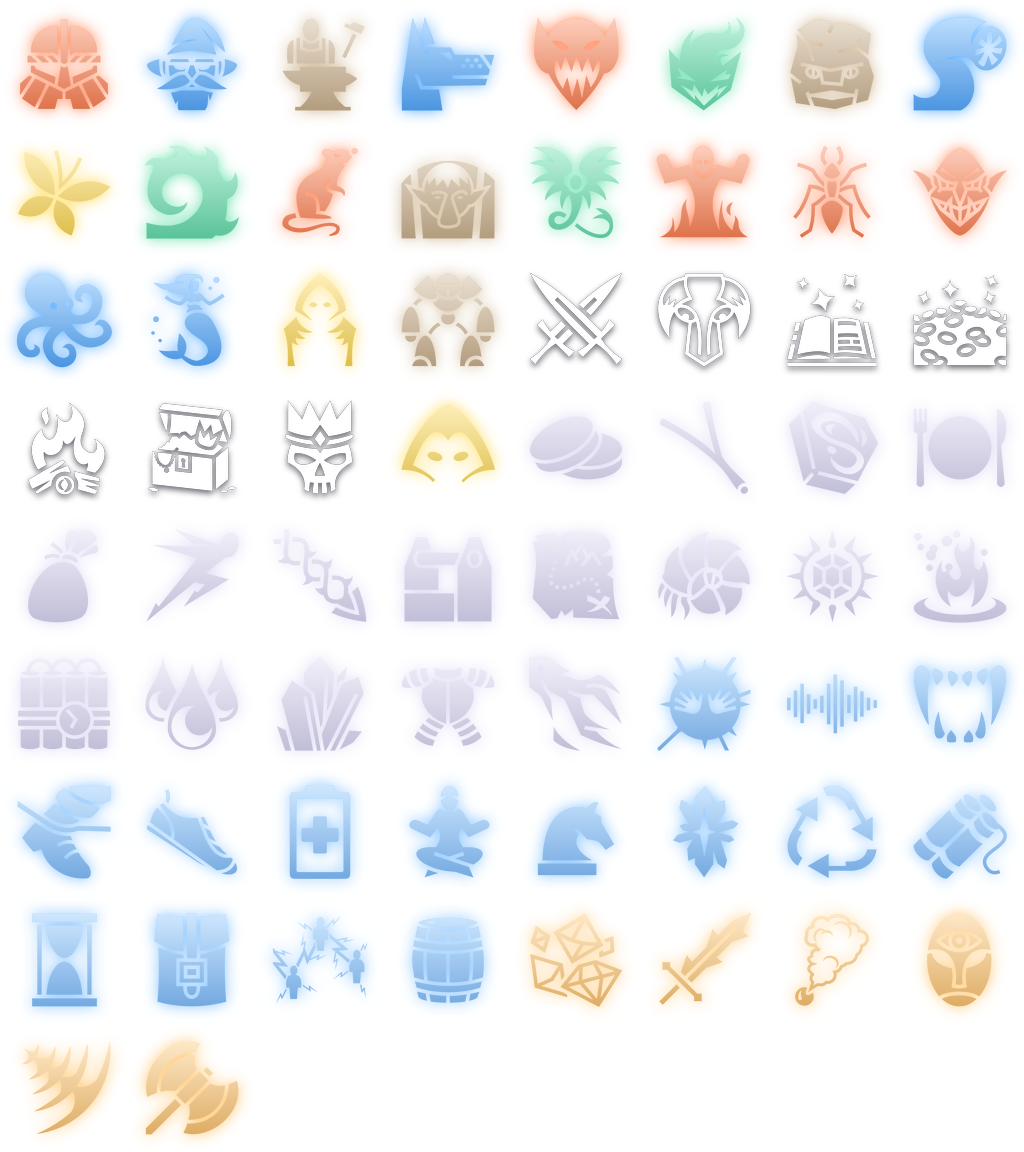
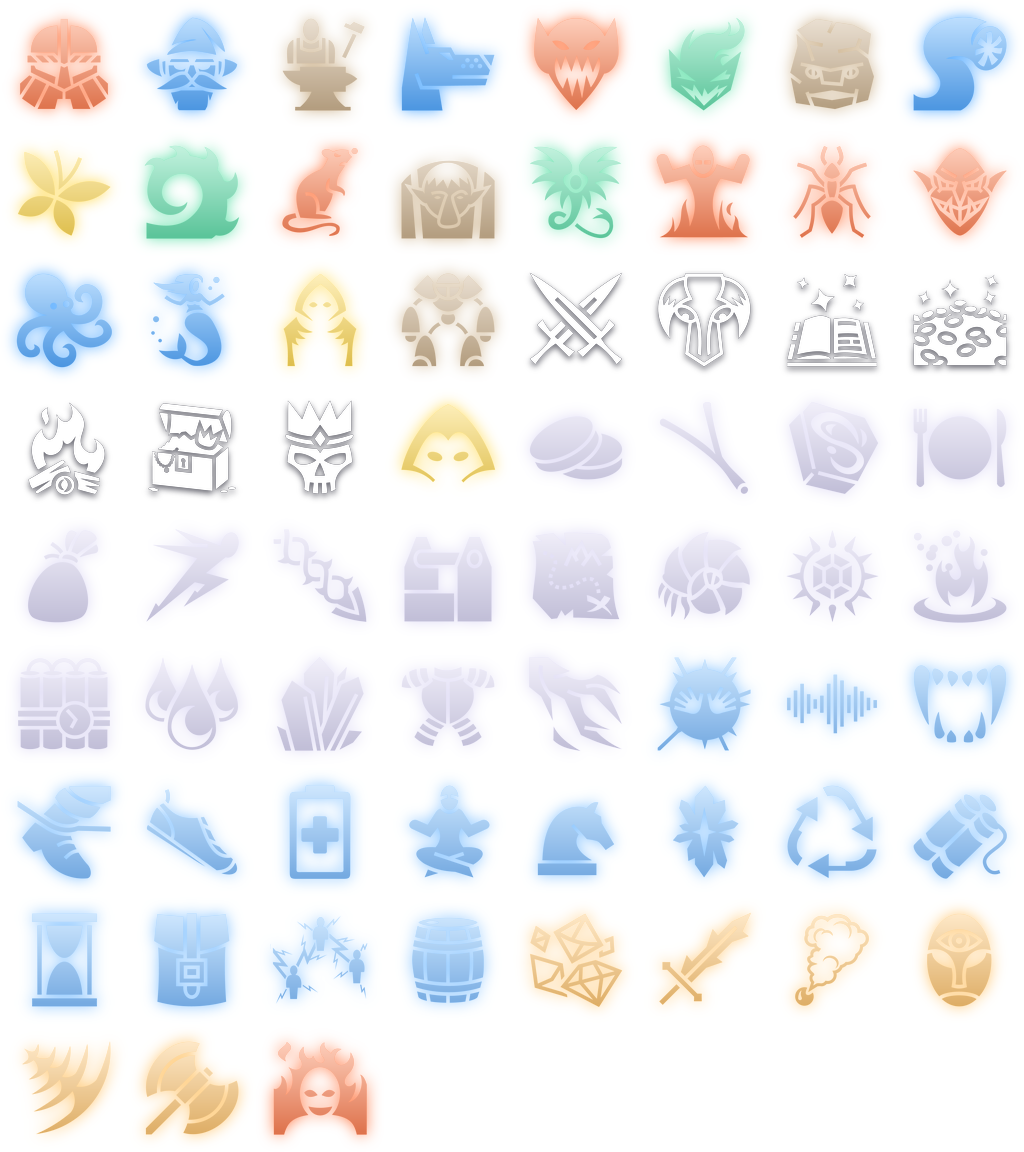
Fourth bearer Scaldwright, and review fixes
Scaldwright (Ember, Tide, Spark; Strikes burn for 2 turns) puts Steam Burst,
Plasma and Conduction into play, with a new triple rite, Boilover. Its sigil
is a new atlas cell after the charms, so no existing cell moved. Old saves
still load.

Fixes from the design review:
- Short Circuit's drain grows on upgrade; "1 stack" reads right.
- Restock is refused once no new pact can turn up.
- The Below: land is built once per unlock, Title button sits by the
  heading, locked places are easier to see.
- Battle: banners sit over the board instead of across SURGE and the rites;
  tiles near a live crystal are the bright ones; all element signs share one
  brightness, with longer bars on Gale and Stone.
- Floor map shows the twist once and labels the bottom tip; pact cards are
  centred with a rarity-weighted frame; shop booth aligned; the status bar
  clears the gear.

Changed region(s): [[0.25, 0.9062, 0.375, 1.0]]

diff --git a/src/ui.rs b/src/ui.rs
@@ -36,15 +36,9 @@ const HEX: Color = rgb(0xa0a0a0);
 
 pub const VIEW: Vec2 = vec2(1280.0, 720.0);
 
-/// Elements differ by their alchemical sign (`gem`), so their light only varies a little.
-fn el_color(e: Element) -> Color {
-    match e {
-        Element::Ember => rgb(0xf2f2f2),
-        Element::Tide => rgb(0xc8c8c8),
-        Element::Gale => rgb(0xe0e0e0),
-        Element::Stone => rgb(0xa8a8a8),
-        Element::Spark => rgb(0xffffff),
-    }
+/// Elements differ only by their alchemical sign (`gem`); a dimmer one would read as disabled.
+fn el_color(_: Element) -> Color {
+    INK
 }
 
 fn mix(a: Color, b: Color, t: f32) -> Color {
@@ -671,8 +665,8 @@ fn sign_strokes(e: Element) -> Vec<Vec<(f32, f32)>> {
     match e {
         Element::Ember => vec![up],
         Element::Tide => vec![down],
-        Element::Gale => vec![up, vec![(4.8, 12.0), (15.2, 12.0)]],
-        Element::Stone => vec![down, vec![(4.8, 8.0), (15.2, 8.0)]],
+        Element::Gale => vec![up, vec![(0.5, 12.0), (19.5, 12.0)]],
+        Element::Stone => vec![down, vec![(0.5, 8.0), (19.5, 8.0)]],
         Element::Spark => vec![vec![(12.0, 2.0), (5.0, 11.0), (10.0, 11.0), (8.0, 18.0), (15.0, 9.0), (10.0, 9.0), (12.0, 2.0)]],
     }
 }
@@ -709,7 +703,7 @@ fn sign(e: Element, p: Vec2, r: f32, c: Color) {
 }
 
 pub fn status(run: &Run) {
-    plate(Rect::new(24.0, 14.0, 1232.0, 44.0), CARD);
+    plate(Rect::new(24.0, 14.0, 1200.0, 44.0), CARD);
     sprite(HEROES[run.hero].sprite, 36.0, 20.0, 32.0, WHITE);
     text(HEROES[run.hero].name, 78.0, 43.0, 22.0, INK);
     let mut x = 260.0;
@@ -824,7 +818,7 @@ fn rune_circle(c: Vec2, rx: f32, ry: f32, col: Color, a: f32) {
 /// The title menu: Play goes to the overworld, Back quits the game.
 pub fn title() -> Option<Go> {
     let t = now() as f32;
-    // the three heroes waiting in a summoning circle
+    // the heroes waiting in a summoning circle
     rune_circle(vec2(640.0, 640.0), 280.0, 40.0, ACCENT, 0.28);
     for k in 0..4 {
         // sparks drifting up out of the circle
@@ -834,7 +828,7 @@ pub fn title() -> Option<Go> {
         sparkle(p, 3.0, t + f, fade(mix(ACCENT, INK, 0.5), 0.4 * (1.0 - up)));
     }
     for (i, h) in HEROES.iter().enumerate() {
-        let x = 640.0 + (i as f32 - 1.0) * 150.0;
+        let x = 640.0 + (i as f32 - (HEROES.len() - 1) as f32 / 2.0) * 135.0;
         draw_ellipse(x, 640.0, 40.0, 7.0, 0.0, fade(OUT, 0.6));
         sprite(h.sprite, x - 48.0, 548.0 + (t * 2.0 + i as f32 * 2.1).sin() * 3.0, 96.0, WHITE);
     }
@@ -907,13 +901,22 @@ pub fn world(save: &Save, pick: &mut (usize, usize)) -> Option<Go> {
     let mut go = None;
     text("The Below", 48.0, 70.0, 44.0, INK);
     text(&format!("{} of {} descents open", save.unlocked, EXPEDITIONS.len()), 50.0, 96.0, 15.0, MUTED);
-    if button(Rect::new(780.0, 40.0, 120.0, 36.0), "< Title", true, false) {
+    let tx = 48.0 + measure("The Below", 44.0).width + 28.0;
+    if button(Rect::new(tx, 40.0, 110.0, 36.0), "< Title", true, false) {
         go = Some(Go::Back);
     }
 
     // the land: unexplored tiles are raised grey; around each open place it lies turned over, its
     // edge numbered like a half-solved board (about one hidden tile in five counts as a mine)
-    let kind = land(save.unlocked);
+    // the land only changes when a descent opens, so build it once per `unlocked`
+    thread_local!(static LAND_AT: std::cell::RefCell<(usize, Vec<Vec<u8>>)> = const { std::cell::RefCell::new((usize::MAX, Vec::new())) });
+    let kind = LAND_AT.with(|l| {
+        let mut l = l.borrow_mut();
+        if l.0 != save.unlocked {
+            *l = (save.unlocked, land(save.unlocked));
+        }
+        l.1.clone()
+    });
     let (x0, y0, cell, cols, rows) = LAND;
     let at = |c: usize, r: usize| kind.get(r).and_then(|row| row.get(c)).copied().unwrap_or(0);
     let mine = |c: usize, r: usize| at(c, r) == 1 && noise(c + 50, r + 50) < 0.22;
@@ -952,7 +955,7 @@ pub fn world(save: &Save, pick: &mut (usize, usize)) -> Option<Go> {
             shown = i;
         }
         let chosen = i == pick.0;
-        let edge = if open { INK } else { rgb(0x5a5a5a) };
+        let edge = if open { INK } else { MUTED };
         let r = if hot && open { 35.0 } else { 32.0 };
         draw_poly(p.x, p.y, 4, r, 0.0, if chosen { INK } else { BG });
         draw_poly_lines(p.x, p.y, 4, r, 0.0, 1.5, edge);
@@ -1589,9 +1592,9 @@ pub fn battle_screen(b: &mut Battle, floor: usize, charms: &[usize], ai_timer: &
     for (i, t) in board.tiles.iter().enumerate() {
         let r = Rect::new(BOARD.x + (i % W) as f32 * STEP, BOARD.y + (i / W) as f32 * STEP, TILE, TILE);
         let mid = r.center();
-        // tiles around a crystal that can still be claimed are a shade greyer
+        // tiles around a crystal that can still be claimed stand out brighter
         let near = Board::neighbors(i).any(|c| board.live(c));
-        let up = if near { rgb(0xcfcfcf) } else { INK };
+        let up = if near { INK } else { rgb(0xb0b0b0) };
         let key = (0, me.cur, i);
         if t.rock {
             rock(r);
@@ -1892,11 +1895,16 @@ pub fn battle_screen(b: &mut Battle, floor: usize, charms: &[usize], ai_timer: &
             let arrive = (el / 0.15).min(1.0);
             let slide = (1.0 - arrive).powi(2) * 500.0 * if from == 0 { -1.0 } else { 1.0 };
             let (size, band) = if lvl == 0 { (40.0, 56.0) } else { (60.0 + 8.0 * up, 84.0 + 14.0 * up) };
-            let (top, mid) = (310.0 - band / 2.0, 310.0);
-            draw_rectangle(-2000.0, top, 5280.0, band, fade(OUT, 0.8 * a));
-            stamped(name, 640.0 + slide, mid + size / 3.0, size + 30.0 * (1.0 - arrive), fade(c, a));
+            let cx = BOARD.x + W as f32 * STEP / 2.0 - 1.0;
+            let mid = BOARD.y + W as f32 * STEP / 2.0;
+            let top = mid - band / 2.0;
+            let wide = (measure(name, size).width + 80.0).max(W as f32 * STEP + 40.0);
+            let bx = Rect::new(cx + slide - wide / 2.0, top, wide, band);
+            draw_rectangle(bx.x, bx.y, bx.w, bx.h, fade(OUT, 0.88 * a));
+            draw_rectangle_lines(bx.x, bx.y, bx.w, bx.h, 1.0, fade(FAINT, a));
+            stamped(name, cx + slide, mid + size / 3.0, size + 30.0 * (1.0 - arrive), fade(c, a));
             if lvl >= 2 {
-                stamped(if lvl == 2 { "LV II" } else { "LV III" }, 640.0 - slide, top - 18.0, 20.0, fade(GOLD_C, a));
+                stamped(if lvl == 2 { "LV II" } else { "LV III" }, cx - slide, top - 18.0, 20.0, fade(GOLD_C, a));
             }
         }
     }
@@ -2032,20 +2040,21 @@ pub fn map_screen(run: &Run) -> Option<(usize, usize)> {
     }
     text("PACTS", x, y + 18.0, 15.0, ACCENT);
     let top = y + 28.0;
-    let mut tip = HEROES[run.hero].passive_desc;
-    let rows = 22.0f32.min((612.0 - top) / run.charms.len().max(1) as f32);
+    let (mut tip, mut tip_label) = (HEROES[run.hero].passive_desc, "PASSIVE");
+    let rows = 22.0f32.min((592.0 - top) / run.charms.len().max(1) as f32);
     for (k, &id) in run.charms.iter().enumerate() {
         let r = Rect::new(x - 8.0, top + k as f32 * rows, 298.0, rows);
         let hot = r.contains(mouse());
         if hot {
-            tip = CHARMS[id].desc;
+            (tip, tip_label) = (CHARMS[id].desc, "PACT");
             block(r, CARD_HI);
         }
         let c = &CHARMS[id];
         sprite(c.icon.0, x, r.y + (rows - 18.0) / 2.0, 18.0, rgb(c.icon.1));
         text(c.name, x + 26.0, r.y + rows / 2.0 + 6.0, 16.0, if hot { INK } else { rarity_color(c.rarity) });
     }
-    wrapped(tip, x, 628.0, 282.0, 16.0, INK);
+    text(tip_label, x, 612.0, 15.0, ACCENT);
+    wrapped(tip, x, 634.0, 282.0, 16.0, INK);
     text(&format!("Seed {}    M: mute    N: next song", run.seed), x, 684.0, 14.0, MUTED);
     chosen
 }
@@ -2054,6 +2063,14 @@ fn charm_card(r: Rect, id: usize, on: bool) -> bool {
     let c = &CHARMS[id];
     let edge = rarity_color(c.rarity);
     let hit = card(r, on);
+    // the frame weighs more the rarer the pact
+    if !(on && r.contains(mouse())) {
+        outline(r, match c.rarity {
+            Rarity::Common => FAINT,
+            Rarity::Rare => MUTED,
+            Rarity::Legendary => INK,
+        });
+    }
     let bob = (now() as f32 * 2.5 + id as f32).sin() * 2.0;
     charm_icon(id, Rect::new(r.x + 20.0, r.y + 22.0 + bob, 64.0, 64.0), 0.0);
     text(c.name, r.x + 100.0, r.y + 52.0, 24.0, INK);
@@ -2063,10 +2080,12 @@ fn charm_card(r: Rect, id: usize, on: bool) -> bool {
 }
 
 pub fn pick(options: &[usize]) -> Option<usize> {
-    stamped("Choose a pact", 640.0, 150.0, 40.0, INK);
+    // title and cards sit in the middle of the screen, however many cards there are
+    stamped("Choose a pact", 640.0, 250.0, 40.0, INK);
     let mut chosen = None;
+    let x0 = 640.0 - (options.len() as f32 * 350.0 - 30.0) / 2.0;
     for (k, &id) in options.iter().enumerate() {
-        if charm_card(Rect::new(130.0 + k as f32 * 350.0, 220.0, 320.0, 240.0), id, true) {
+        if charm_card(Rect::new(x0 + k as f32 * 350.0, 300.0, 320.0, 240.0), id, true) {
             chosen = Some(id);
         }
     }
@@ -2132,7 +2151,7 @@ pub fn shop(run: &mut Run, shop: &mut Shop) -> bool {
     stamped("Tinker's Stall", 640.0, 112.0, 40.0, INK);
 
     // the shopkeeper's booth: the keeper and your purse
-    let booth = Rect::new(48.0, 150.0, 290.0, 470.0);
+    let booth = Rect::new(48.0, 140.0, 290.0, 494.0);
     plate(booth, WELL);
     sprite(HD + 27, 118.0, 290.0 + (t as f32 * 2.0).sin() * 3.0, 150.0, WHITE);
     rounded(Rect::new(72.0, 470.0, 242.0, 2.0), 1.0, fade(MUTED, 0.25));
@@ -2209,7 +2228,7 @@ pub fn shop(run: &mut Run, shop: &mut Shop) -> bool {
         say("Hold still. This stings.");
     }
     let restock = Run::restock_price(shop);
-    if button(Rect::new(692.0, 590.0, 260.0, 44.0), &format!("Restock for {restock}"), run.shards >= restock, false) && run.restock(shop) {
+    if button(Rect::new(692.0, 590.0, 260.0, 44.0), &format!("Restock for {restock}"), run.shards >= restock && run.can_restock(shop), false) && run.restock(shop) {
         play(Sfx::Coins);
         sel = None;
         for k in 0..SHOP_SIZE {

diff --git a/src/data.rs b/src/data.rs
@@ -91,9 +91,10 @@ pub struct Combo {
 /// Highest level a skill can reach.
 pub const MAX_LEVEL: usize = 3;
 
-/// An effect's number at skill level `lvl`: +50% per level.
+/// An effect's number at skill level `lvl`: +50% per level, and always at least +1 per level
+/// (so a 1 still grows: 1, 2, 3).
 pub fn at_level(v: i32, lvl: usize) -> i32 {
-    v * (lvl as i32 + 1) / 2
+    (v * (lvl as i32 + 1) / 2).max(v + lvl as i32 - 1)
 }
 
 impl Combo {
@@ -117,7 +118,10 @@ impl Combo {
                 Shield(v) => format!("gain {} shield", at_level(v, lvl)),
                 Heal(v) => format!("heal {}", at_level(v, lvl)),
                 Weaken(n) => format!("foe's attacks halved, {} turns", at_level(n, lvl)),
-                Drain(n) => format!("foe loses {} stacks", at_level(n as i32, lvl)),
+                Drain(n) => {
+                    let k = at_level(n as i32, lvl);
+                    format!("foe loses {k} stack{}", if k == 1 { "" } else { "s" })
+                }
                 Scout(n) => format!("flag {} of your mines", at_level(n as i32, lvl)),
                 Pierce => "shatter foe's shield".into(),
             })
@@ -148,6 +152,7 @@ pub static COMBOS: &[Combo] = &[
     combo("Forgefire", ["Starforge", "Sunforge"], &[Ember, Stone, Spark], &[Damage(8)]),
     combo("Maelstrom", ["Abyssal Gyre", "Leviathan"], &[Tide, Gale, Stone], &[Shield(6), Heal(4)]),
     combo("Short Circuit", ["Arc Flash", "Blackout"], &[Ember, Gale, Spark], &[Damage(6), Drain(1)]),
+    combo("Boilover", ["Scalding Flood", "Hellbroth"], &[Ember, Tide, Spark], &[Burn(2), Damage(5)]),
 ];
 
 /// Position of `c` in `COMBOS`.
@@ -198,6 +203,15 @@ pub static HEROES: &[Hero] = &[
         elements: [Tide, Stone, Spark],
         passive: |m| m.start_shield += 5,
         passive_desc: "Plated: gain 5 shield at the start of each wave.",
+    },
+    Hero {
+        name: "Scaldwright",
+        sprite: HD + 66,
+        hp: 64,
+        power: 3,
+        elements: [Ember, Tide, Spark],
+        passive: |m| m.strike_burn += 2,
+        passive_desc: "Searing touch: your Strikes burn the foe for 2 turns.",
     },
 ];
 
@@ -640,3 +654,16 @@ pub static ENCOUNTERS: &[Encounter] = &[
         ],
     },
 ];
+
+#[cfg(test)]
+mod tests {
+    use super::*;
+
+    #[test]
+    fn every_level_adds_at_least_one() {
+        assert_eq!((1..=3).map(|l| at_level(1, l)).collect::<Vec<_>>(), [1, 2, 3]);
+        // bigger numbers keep the +50% per level
+        assert_eq!((1..=3).map(|l| at_level(6, l)).collect::<Vec<_>>(), [6, 9, 12]);
+        assert_eq!((1..=3).map(|l| at_level(3, l)).collect::<Vec<_>>(), [3, 4, 6]);
+    }
+}

diff --git a/src/run.rs b/src/run.rs
@@ -99,8 +99,7 @@ impl Run {
             note: String::new(),
         };
         run.gen_map();
-        let t = &TWISTS[run.twist];
-        run.note = format!("{}, floor 1. {}: {}", EXPEDITIONS[exp].name, t.name, t.desc);
+        run.note = format!("{}, floor 1.", EXPEDITIONS[exp].name);
         let stage = run.pick();
         (run, stage)
     }
@@ -327,8 +326,7 @@ impl Run {
             self.floor += 1;
             self.pos = None;
             self.gen_map();
-            let t = &TWISTS[self.twist];
-            self.note = format!("{}, floor {}. {}: {}", EXPEDITIONS[self.exp].name, self.floor + 1, t.name, t.desc);
+            self.note = format!("{}, floor {}.", EXPEDITIONS[self.exp].name, self.floor + 1);
         }
         Stage::Map
     }
@@ -418,9 +416,14 @@ impl Run {
     }
 
     /// Swaps every ware on the counter for new ones.
+    /// Restocking is only worth paying for while some pact is neither yours nor on the counter.
+    pub fn can_restock(&self, shop: &Shop) -> bool {
+        (0..CHARMS.len()).any(|i| !self.charms.contains(&i) && !shop.stock.contains(&Some(i)))
+    }
+
     pub fn restock(&mut self, shop: &mut Shop) -> bool {
         let price = Self::restock_price(shop);
-        if self.shards < price {
+        if self.shards < price || !self.can_restock(shop) {
             return false;
         }
         self.shards -= price;

diff --git a/src/save.rs b/src/save.rs
@@ -100,7 +100,9 @@ mod tests {
         assert_eq!(s.record(0, 0, 3, true), None);
         s.volume = (3, 10);
         assert_eq!(Save::parse(&s.text()), s);
-        assert_eq!(s.best[0], vec![CLEARED, 2, CLEARED]);
+        assert_eq!(s.best[0], vec![CLEARED, 2, CLEARED, 0]);
+        // a save from before the fourth hero still loads; the new hero starts fresh
+        assert_eq!(Save::parse(&format!("best 0 {CLEARED} 2 {CLEARED}")).best[0], vec![CLEARED, 2, CLEARED, 0]);
         let junk = Save::parse("unlocked 99\nbest 0 1 x\nbest 77 1\nvolume 4\nnonsense");
         assert_eq!(junk.unlocked, EXPEDITIONS.len());
         assert_eq!(junk.volume, (6, 8));

diff --git a/assets/sigils/build_sigils.py b/assets/sigils/build_sigils.py
@@ -34,6 +34,8 @@ SIGILS = [
     (["battery-plus"], RARE), (["meditation"], RARE), (["chess-knight"], RARE), (["crystal-cluster"], RARE), (["recycle"], RARE),
     (["dynamite"], RARE), (["hourglass"], RARE), (["knapsack"], RARE), (["chain-lightning"], RARE), (["barrel"], RARE),
     (["gems"], LEGEND), (["shard-sword"], LEGEND), (["smoke-bomb"], LEGEND), (["third-eye"], LEGEND), (["echo-ripples"], LEGEND), (["battle-axe"], LEGEND),
+    # 66 the fourth hero, Scaldwright (after the charms, so no older cell moves)
+    (["pyromaniac"], EMBER),
 ]
 CELL, COLS, GLYPH = 128, 8, 100
 

diff --git a/README.md b/README.md
@@ -26,7 +26,7 @@ fire now, or flip one more? The enemy plays by exactly the same rules, in full v
 
 ## Features
 
-- **Three heroes**, each with their own elements, rites and play style.
+- **Four heroes**, each with their own elements, rites and play style.
 - **Five elements** and 16 combo rites that need the right mix of stacks.
 - **Branching runs** across three floors: battles, elites, encounters, shops, rest sites, treasure
   and a boss at the end of each floor.
